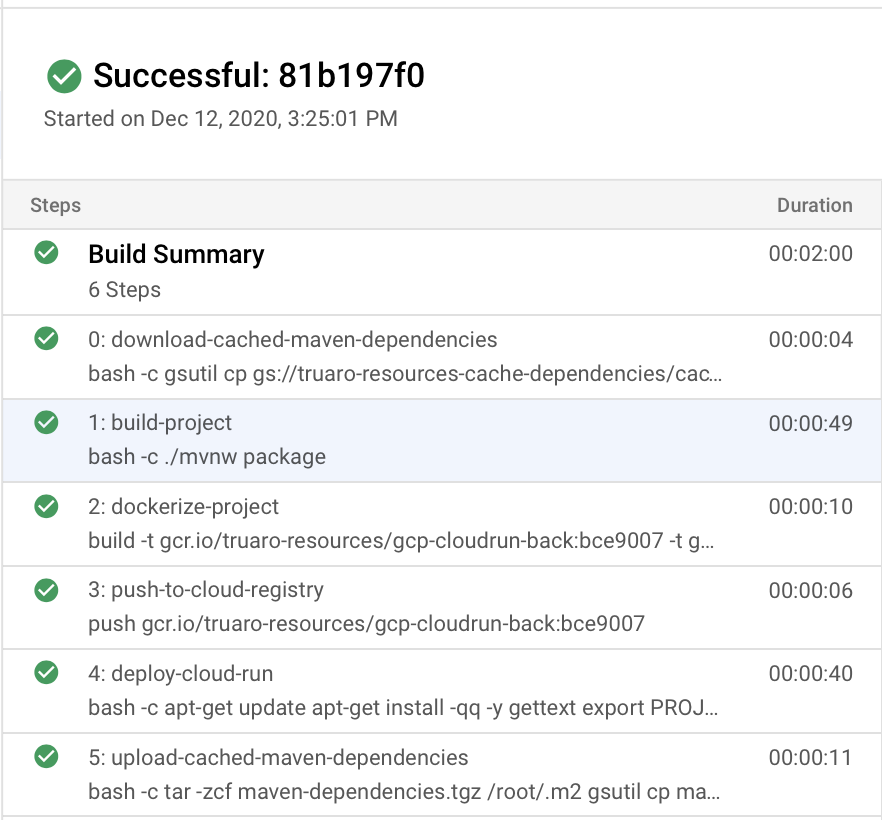
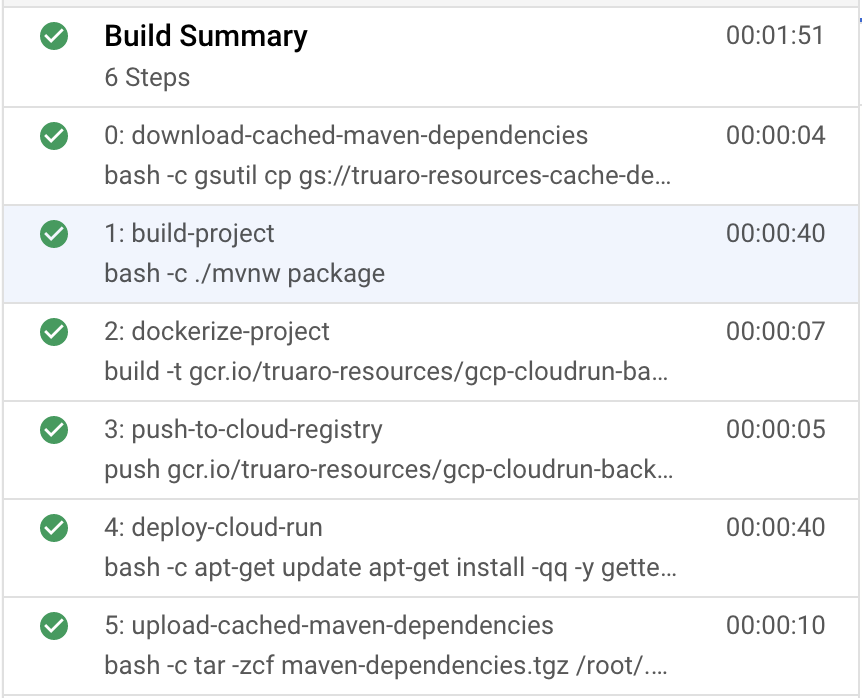
after review + change image

diff --git a/content/articles/improving-cloud-build-with-dependencies-cache.md b/content/articles/improving-cloud-build-with-dependencies-cache.md
@@ -4,29 +4,30 @@ description: In this article we focus on optimizing a Cloud Build pipeline by re
 image: /articles/improving-cloud-build-with-dependencies-cache/main.png
 alt: The Cloud build logo
 readingTime: 7 minutes
-createdAt: 2020-12-17
+createdAt: 2021-03-26
 author:
   name: Thibault Ruaro
   bio: Thibault is a GCP Professional Architect, with a passion for great code. He likes reading about code best practices and staying up-to-date concerning the latest IT subject. He is also an official Spring Core Trainer, where he gives training at Zenika on a monthly basis.
   image: /thibault-ruaro.png
 ---
 
+
 # Introduction
 
-Building a Continuous Deployment pipeline is amazing as you collect feedback on a daily basis. At first, the pipeline is quite quick and deploying application is easy. But as your application grow, you might have faced more and more latency... This article is here tp show you how you can reduce the build time by adding dependencies cache on Cloud Storage.
+Building a Continuous Deployment pipeline is amazing as you collect feedback on a daily basis. At first, the pipeline is quite quick and deploying applications is easy. But as your application is growing, you might have faced more and more latency... This article is here to show you how you can reduce the build time by adding dependencies cache on Cloud Storage.
 
-For this focus, I'll simply use this `cloudbuild.yaml` file, see the current deployment time, and see how we improved it using Google Storage cache.
+For this focus, I'll simply use this `cloudbuild.yaml` file, watch the current deployment time, and explore how we improved it using Google Storage cache.
 ```yaml
 steps:
   - id: 'build-project'
-    name: adoptopenjdk/openjdk11:jdk-11.0.8_10
+    name: adoptopenjdk/openjdk11:jdk-11.0.8_10-slim
     dir: gcpcloudrunback
     entrypoint: bash
-    args: 
+    args:
       - '-c'
       - |
         ./mvnw package
-
+ 
   - id: 'dockerize-project'
     name: gcr.io/cloud-builders/docker
     dir: gcpcloudrunback
@@ -34,11 +35,11 @@ steps:
             '-t', 'gcr.io/$PROJECT_ID/gcp-cloudrun-back:$SHORT_SHA',
             '-t', 'gcr.io/$PROJECT_ID/gcp-cloudrun-back:latest',
             '.' ]
-
+ 
   - id: 'push-to-cloud-registry'
     name: gcr.io/cloud-builders/docker
     args: [ 'push', 'gcr.io/$PROJECT_ID/gcp-cloudrun-back:$SHORT_SHA' ]
-
+ 
   - id: 'deploy-cloud-run'
     name: gcr.io/cloud-builders/gcloud
     dir: gcpcloudrunback
@@ -80,13 +81,13 @@ CMD ["java", "-jar", "/app.jar"]
 
 # Reducing the build time with cache
 
-Currently, when deploying this pipeline ([based on this Github project](https://github.com/truar/blog-resources/tree/master/gcpapplication)), it takes my build 1 minute and 45 seconds on average to complete. Let first understands this build time, to see what can be improved. ![Cloud Build deployment time](/articles/improving-cloud-build-with-dependencies-cache/cloud-build-deployment-time-before-cache.png)
+Currently, when deploying this pipeline ([based on this Github project](https://github.com/truar/blog-resources/tree/master/gcpapplication)), it takes my build 1 minute and 45 seconds on average to complete. Let's first understand this build time, to see what can be improved. ![Cloud Build deployment time](/articles/improving-cloud-build-with-dependencies-cache/cloud-build-deployment-time-before-cache.png)
 
-> * The longest steps is the one where the dependencies need to be installed `build-project`, where we see all the dependencies are downloaded. If you think that those dependencies will not change so often, it clearly needs some optimization to avoid unnecessary resources to be used.
+> * The longest step is the one where the dependencies need to be installed `build-project`, where we see all the dependencies are downloaded. If you think that those dependencies will not change so often, it clearly needs some optimization to avoid unnecessary resources to be used.
 
 ## Add maven cache
 
-Reading Google [Cloud build optimizations documentation](https://cloud.google.com/cloud-build/docs/speeding-up-builds, we can manually add Google Storage cache to reduce build time.
+Reading Google [Cloud build optimizations documentation](https://cloud.google.com/cloud-build/docs/speeding-up-builds), we can manually add Google Storage cache to reduce build time.
 > Note that some Cloud Build competitors offer easily managed caching solutions... such a shame Cloud Build is not and we have to do everything manually.
 
 ### Create a storage bucket
@@ -94,16 +95,15 @@ Reading Google [Cloud build optimizations documentation](https://cloud.google.co
 We will store our dependencies cache into a specific bucket. Let's create one:
 ```shell script
 gsutil mb gs://${PROJECT_ID}-cache-dependencies
-
-Creating gs://${PROJECT_ID}-cache-dependencies/...
+> Creating gs://${PROJECT_ID}-cache-dependencies/...
 ```
-> Replace `${PROJECT_ID}` with your actuel project Id. Cloud storage needs a unique among all the bucket in the system. By prefixing your bucket with your project Id, there is low chance to collide with another bucket name.
+> Replace `${PROJECT_ID}` with your actual project Id. Cloud storage needs a unique name among all the buckets in the system. By prefixing your bucket with your project Id, there is a low chance to collide with another bucket name.
 
 ### Add steps to fetch and save the cache
 
-To fetch and save the cache downloaded by Maven: 
+To fetch and save the cache downloaded by Maven:
 * We will use the **volumes** features of Cloud Build. By default, Cloud Build persists the folder `/workspace` across your build steps. We can specify other volumes to be persisted.
-* Cloud Build does not offer yet an easy way to cache dependencies for an usage across different build.
+* Cloud Build does not offer yet an easy way to cache dependencies for any usage across different builds.
 * It does not offer also the possibility for a step to fail silently without stopping the pipeline.
 
 Knowing this, here is what the final `cloudbuild.yaml` with dependencies cache looks like:
@@ -120,7 +120,7 @@ steps:
       - |
         gsutil cp gs://${PROJECT_ID}-cache-dependencies/cache/maven-dependencies.tgz maven-dependencies.tgz || exit 0
         tar -zxf maven-dependencies.tgz --directory / || exit 0
-
+ 
   - id: 'build-project'
     name: adoptopenjdk/openjdk11:jdk-11.0.8_10
     dir: mavencachecloudbuild/gcpcloudrunback
@@ -132,7 +132,7 @@ steps:
       - '-c'
       - |
         ./mvnw package
-
+ 
   - id: 'dockerize-project'
     name: gcr.io/cloud-builders/docker
     dir: mavencachecloudbuild/gcpcloudrunback
@@ -140,11 +140,11 @@ steps:
             '-t', 'gcr.io/$PROJECT_ID/gcp-cloudrun-back:$SHORT_SHA',
             '-t', 'gcr.io/$PROJECT_ID/gcp-cloudrun-back:latest',
             '.' ]
-
+ 
   - id: 'push-to-cloud-registry'
     name: gcr.io/cloud-builders/docker
     args: [ 'push', 'gcr.io/$PROJECT_ID/gcp-cloudrun-back:$SHORT_SHA' ]
-
+ 
   - id: 'deploy-cloud-run'
     name: gcr.io/cloud-builders/gcloud
     dir: mavencachecloudbuild/gcpcloudrunback
@@ -163,7 +163,7 @@ steps:
         gcloud run services add-iam-policy-binding gcp-cloudrun-back \
           --platform=managed --region=europe-west1 \
           --member="allUsers" --role="roles/run.invoker"
-
+ 
   - id: 'upload-cached-maven-dependencies'
     waitFor: [ 'build-project']
     name: gcr.io/cloud-builders/gsutil
@@ -197,18 +197,17 @@ Let's review the important part.
       - |
         gsutil cp gs://${PROJECT_ID}-cache-dependencies/cache/maven-dependencies.tgz maven-dependencies.tgz || exit 0
         tar -zxf maven-dependencies.tgz --directory / || exit 0
-
 ```
 > * `name: gcr.io/cloud-builders/gsutil`: use a provided Google image with `gsutil` to manage buckets.
 > * `volumes:`: persist a volume across build steps. With maven, the default volume is `/${USER_HOME}/.m2`, which is `/root/.m2` in our different images.
 > * `gsutil cp && tar -xzf`: downloading the files from the bucket (in `.tgz` to reduce dependencies size).
-> * `|| exit 0`: As mentioned earlier, there is no easy way to ignore steps on error. Just add `exit 0` to make sure if the folder does not exist on the bucket your build does not fail.
+> * `|| exit 0`: As mentioned earlier, there is no easy way to ignore steps on error. Just add `exit 0` to make sure if the folder does not exist on the bucket your build does not fail. I know it is not a perfect solution, but the step is small enough not to damage the entire pipeline. Besides, if you don’t have cache, you can still build the application.
 
 
 2. Use the volume persisted by the previous steps to enhance the `./mvnw` command
 ```yaml
   - id: 'build-project'
-    name: adoptopenjdk/openjdk11:jdk-11.0.8_10
+    name: adoptopenjdk/openjdk11:jdk-11.0.8_10-slim
     dir: mavencachecloudbuild/gcpcloudrunback
     entrypoint: bash
     volumes:
@@ -248,7 +247,7 @@ Here is the result of the first build, before the cache was created.![Result of 
 
 Here is the result of the second build, after the cache was created.![Result of sceond build](/articles/improving-cloud-build-with-dependencies-cache/second-build-result.png)
 
-For now, **we save couple of seconds**, not worth it you might say. But keep in mind your build will get bigger and bigger, and if you do not optimize it, il will take minutes before completion. Today, we simply deploy one single Cloud Run service, but we can deploy 2 or 3, with Cloud Functions as well. If you download maven dependencies each time, you will waste a lot of time and resources. So keep that in mind.
+For now, **we save couple of seconds (30 seconds)**, not worth it you might say. But keep in mind your build will get bigger and bigger, and if you do not optimize it, it will take minutes before completion. Today, we simply deploy one single Cloud Run service, but we can deploy 2 or 3, with Cloud Functions as well. If you download maven dependencies each time, you will waste a lot of time and resources. So keep that in mind.
 
 
 ## Bonus: the same for a frontend project with yarn
@@ -265,24 +264,24 @@ steps:
       - |
         gsutil cp gs://${PROJECT_ID}-cache-dependencies/cache/yarn-dependencies.tgz yarn-dependencies.tgz || exit 0
         tar -zxf yarn-dependencies.tgz || exit 0
-
+ 
   - id: 'install-yarn'
     name: node
     entrypoint: yarn
     dir: gcpfirebasefront
     args: ['install', '--silent']
-
+ 
   - id: 'build-front'
     name: node
     entrypoint: yarn
     dir: gcpfirebasefront
     args: [ 'build' ]
-
+ 
   - id: 'deploy-firebase'
     name: gcr.io/$PROJECT_ID/firebase
     dir: gcpfirebasefront
     args: [ 'deploy', '--project=$PROJECT_ID', '--only', 'hosting' ]
-
+ 
   - id: 'upload-cached-yarn-dependencies'
     waitFor: ['build-front']
     name: gcr.io/cloud-builders/gsutil
@@ -307,9 +306,17 @@ In this article focuses on optimizing Cloud Build with Maven and Yarn build step
 
 Please note using Cloud Storage as cache storage will incur small fees as you pay for the GigaBytes stored. But don't worry, the cached maven folder is 61MB, which is free for your usage.
 
+## To go further
+
+If you feel like it, you can improve some parts of the build by:
+* Instead of downloading a file from a bucket, why not build an image containing all the dependencies you need ?
+* Use a hash to make upload the dependencies only if they changed since last build
+* You can also store docker image in a Bucket, which make the build even faster (using Google Jib)
+* Improve the build avoiding hiding the errors when downloading the files from the cache folder
+* Configure your bucket to delete files older than 2 weeks, in order to save some money for a cache that is no longer used.
+
 ## Resources
 
 * [Best practices for speeding up builds](https://cloud.google.com/cloud-build/docs/speeding-up-builds)
 * [Cloud Build global configuration file](https://cloud.google.com/cloud-build/docs/build-config)
 * [GSutil command to manage buckets](https://cloud.google.com/storage/docs/gsutil)
-
